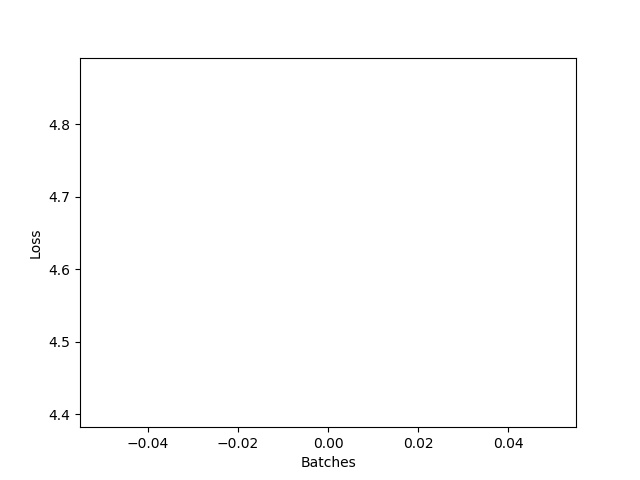
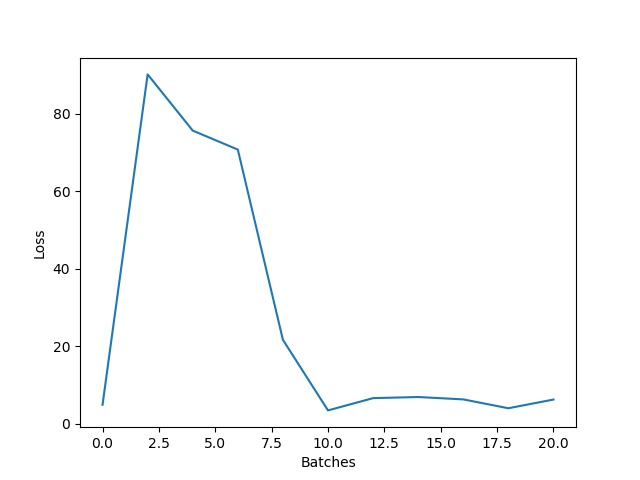
remove and retrain results fullgrad

diff --git a/remove_and_retrain.py b/remove_and_retrain.py
@@ -69,7 +69,7 @@ def train(data_loader, model, use_saliency=False, \
     # plot
     plt.figure(1)
     plt.clf()
-    plt.plot(range(len(losses)), losses)
+    plt.plot(range(0, ARGS.batch_size * len(losses), ARGS.batch_size), losses)
     plt.ylabel('Loss')
     plt.xlabel('Batches')
     if use_saliency:
@@ -111,7 +111,7 @@ def remove_and_retrain(data_loader):
                              saliency_method_name=method_name)
             accuracies[method_idx, k_idx] = accuracy
         plt.figure(0)
-        plt.plot(ARGS.k, list(accuracies[method_idx]), label=method_name + str(k))
+        plt.plot([k * 100 for k in ARGS.k], list(accuracies[method_idx]), label=method_name + str(k))
     plt.figure(0)
     plt.ylabel('Accuracy')
     plt.xlabel('k %')
